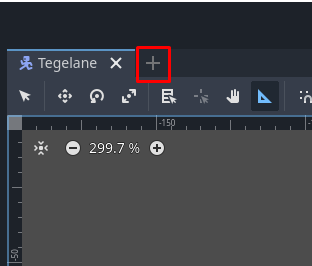
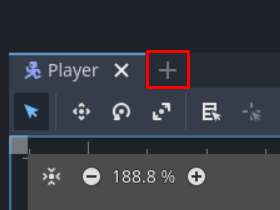
2nd chapter code in english (better to read)

diff --git a/2d-mang/ronija.md b/2d-mang/ronija.md
@@ -33,18 +33,21 @@ CollisionShape sõlme `shape` omadusel on vaja kindlat väärtust. Füüsilisel 
 
 ![Pildil on täpsustatud, kust CollisionShape2D sõlmele kuju luua.](./pildid/ronija/fuusiline-kuju.png)
 
-Nüüd on see CharacterBody2D ristküliku kujuline. Kuid tegelane pole ainult sinine ristkülik - ta peaks ju robot olema, nagu failides. Esiteks salvesta stseen nimega `Tegelane.tscn` ja siis loo `AnimatedSprite2D` nimeline sõlm. See sõlm võimaldab lihtsaid, juba spraidi failis erinevate kaadritega 2D animatsioonid ellu tuua. Sprait tähendab mingit pilti, mida arvutiekraanil saab ringi liigutada. Äsja loodud sõlm hoiatab, et tema "Sprite Frames"-nimelisel omadusel on kindlasti väärtust vaja, muidu on see sõlm kasutu. Ehk leia ja vajuta inspektoris AnimatedSprite2D -> Animation -> Sprite Frames -> New SpriteFrames. Ennem oli muutuja väärtust kuvavas kastis sõna `<empty>`, nüüd on `SpriteFrames`. Vajuta selle peale uuesti ja alumisel ribal avaneb sellele sõlmele omane moodul, millega saame oma animatsioone luua.
+Nüüd on see CharacterBody2D ristküliku kujuline. Kuid tegelane pole ainult sinine ristkülik - ta peaks ju robot olema, nagu failides. Esiteks salvesta stseen nimega `Player.tscn` ja siis loo `AnimatedSprite2D` nimeline sõlm. See sõlm võimaldab lihtsaid, juba spraidi failis erinevate kaadritega 2D animatsioonid ellu tuua. Sprait tähendab mingit pilti, mida arvutiekraanil saab ringi liigutada. Äsja loodud sõlm hoiatab, et tema "Sprite Frames"-nimelisel omadusel on kindlasti väärtust vaja, muidu on see sõlm kasutu. Ehk leia ja vajuta inspektoris AnimatedSprite2D -> Animation -> Sprite Frames -> New SpriteFrames. Ennem oli muutuja väärtust kuvavas kastis sõna `<empty>`, nüüd on `SpriteFrames`. Vajuta selle peale uuesti ja alumisel ribal avaneb sellele sõlmele omane moodul, millega saame oma animatsioone luua.
 
 ![AnimatedSprite2D SpriteFrames moodul peaks algul selline välja nägema.](./pildid/ronija/animated-sprite-2d-moodul.png)
 
 Saame oma animatsioonid luua päris lihtsalt - loome uue animatsiooni, paneme talle sobiva nime ja valime spraidi pildilt, milliseid kaadreid see animatsioon kasutab. Looma pead järgnevate nimedega animatsioonid:
 
--   `seisab`
--   `hüppab`
--   `jookseb`
--   `ronib`
+-   `idle`
+-   `jump`
+-   `run`
+-   `climb`
 
-Kuna üks animatsioon nimega `default` on juba olemas, siis võid alustada sellega, et annad talle uue nime `seisab`. Seda saad teha nime peale ühe korra hiirega vajutades ja siis kirjutades. Järgmisena otsi üles Animation Frames sektsioonis ruudukujuline 9 osaks jagatud nupp. Hiirt selle nupu peal hoides näidatakse vihjet "Add frames from sprite sheet (CTRL+Shift+O)". Vajuta sellele nupule.
+Kuna üks animatsioon nimega `default` on juba olemas, siis võid alustada sellega, et annad talle uue nime `idle`. Seda saad teha nime peale ühe korra hiirega vajutades ja siis kirjutades. Järgmisena otsi üles Animation Frames sektsioonis ruudukujuline 9 osaks jagatud nupp. Hiirt selle nupu peal hoides näidatakse vihjet "Add frames from sprite sheet (CTRL+Shift+O)". Vajuta sellele nupule.
+
+{: .todo }
+Vana pilt
 
 ![Pilt tähistamas kõiki nuppe, mida AnimatedSprite2D-ga animatsioonide loomiseks vaja on.](./pildid/ronija/animatsiooni-loomine.png)
 
@@ -52,29 +55,29 @@ Avaneb uus aken, mis palub sul spraidi faili valida. Leia üles tegelase fail (n
 
 ![Kaadrite valimine animatsiooni jaoks.](./pildid/ronija/kaadrite-valimine.png)
 
-Nüüd loome animatsiooni nimega `jookseb`. Animatsiooni loomiseks leia mooduli Animations sektsioonis paberilehe disainiga nupp, kus on juures roheline plussmärk (see on märgitud ka üleeelmisel pildil punasega) ja vajuta sellele. Peaks ilmuma uus animatsioon nimega `new_animation`. Nüüd juba tead, mida teha: muuda ära nimi, leia spraidi fail ja märgi ära animatsiooni kaadrid. Kaadreid saab valida ka hiire vasakut nuppu all hoides ja seda kaadrite üle liigutades. Selle animatsiooni jaoks on tarvis **ülemise rea parempoolseid** kaadreid.
+Nüüd loome animatsiooni nimega `run`. Animatsiooni loomiseks leia mooduli Animations sektsioonis paberilehe disainiga nupp, kus on juures roheline plussmärk (see on märgitud ka üleeelmisel pildil punasega) ja vajuta sellele. Peaks ilmuma uus animatsioon nimega `new_animation`. Nüüd juba tead, mida teha: muuda ära nimi, leia spraidi fail ja märgi ära animatsiooni kaadrid. Kaadreid saab valida ka hiire vasakut nuppu all hoides ja seda kaadrite üle liigutades. Selle animatsiooni jaoks on tarvis **ülemise rea parempoolseid** kaadreid.
 
-Loo `hüppab` animatsioon, kasutades **ülemise rea vasakult teist** kaadrit ning `ronib` animatsioon kasutab neid **alumise rea** kaadreid, kus tegelane on seljaga. Nüüd on tegelase animatsioonid valmis! Nüüd on aeg lahendada üks probleem, nimelt tegelase füüsiline kuju on liiga väike. Tegelane ise on ka enam-vähem ristküliku kujuline, aga füüsilist kujundit pole näha. Esmalt lohista hiirega stseeni dokis CollisionShape2D sõlm AnimatedSprite2D-st allapoole, et see tegelase ees ilmuks. Seejärel leia inspektoris taas `Shape` omadus ja vajuta väärtuse peale. Selle alla peaks ilmuma nüüd alamenüü, kuhu saad kujundi suurust kirjutada. X väärtus peaks olema 52 ja Y väärtus 66. Lisaks pead kujundi positsiooni natuke allapoole viima - pane seal Y väärtuseks 15.
+Loo `jump` animatsioon, kasutades **ülemise rea vasakult teist** kaadrit ning `climb` animatsioon kasutab neid **alumise rea** kaadreid, kus tegelane on seljaga. Nüüd on tegelase animatsioonid valmis! Nüüd on aeg lahendada üks probleem, nimelt tegelase füüsiline kuju on liiga väike. Tegelane ise on ka enam-vähem ristküliku kujuline, aga füüsilist kujundit pole näha. Esmalt lohista hiirega stseeni dokis CollisionShape2D sõlm AnimatedSprite2D-st allapoole, et see tegelase ees ilmuks. Seejärel leia inspektoris taas `Shape` omadus ja vajuta väärtuse peale. Selle alla peaks ilmuma nüüd alamenüü, kuhu saad kujundi suurust kirjutada. X väärtus peaks olema 52 ja Y väärtus 66. Lisaks pead kujundi positsiooni natuke allapoole viima - pane seal Y väärtuseks 15.
 
 ![Tegelase füüsilise kuju vajalikud parandused.](./pildid/ronija/fuusilise-kuju-parandamine.png)
 
 ## Tegelase liikuma panemine
 
-Tegelase liikuma saamiseks on esiteks vaja tekitada võimalused mängijal sisendeid saata. Selleks ava tööriistaribalt projekti seaded (Project -> Project Settings...). Projekti seadete aknas vaheta ülevalt vaade `Input Map` peale. Siin saad deklareerida erinevaid tegevusi, mida mängija saab teha, näiteks vasakule liikumine, hüppamine jms. Lahtrisse `Add New Action` kirjuta `liikumine_parem` ja lisa see kas `Add` nupust või `Enter` klahvile vajutades. Tahame, et tegelane liiguks nooleklahvidega. Leia tegevuste loetelust enda vast loodud tegevus ja vajuta paremal olevalt plussmärki. Avaneb aken, kus saad ära märkida, mis kasutaja sisendiga see tegevus toimub. Vajuta lahtri `Listening for input...` peale ja vajuta paremat nooleklahvi, siis kliki `OK` nuppu, et kinnitada, et see tegevus juhtub sellise sisendi korral.
+Tegelase liikuma saamiseks on esiteks vaja tekitada võimalused mängijal sisendeid saata. Selleks ava tööriistaribalt projekti seaded (Project -> Project Settings...). Projekti seadete aknas vaheta ülevalt vaade `Input Map` peale. Siin saad deklareerida erinevaid tegevusi, mida mängija saab teha, näiteks vasakule liikumine, hüppamine jms. Lahtrisse `Add New Action` kirjuta `movement_right` ja lisa see kas `Add` nupust või `Enter` klahvile vajutades. Tahame, et tegelane liiguks nooleklahvidega. Leia tegevuste loetelust enda vast loodud tegevus ja vajuta paremal olevalt plussmärki. Avaneb aken, kus saad ära märkida, mis kasutaja sisendiga see tegevus toimub. Vajuta lahtri `Listening for input...` peale ja vajuta paremat nooleklahvi, siis kliki `OK` nuppu, et kinnitada, et see tegevus juhtub sellise sisendi korral.
 
 Kokku on vaja luua neli tegevust:
 
--   `liikumine_parem` parema nooleklahviga (selle lõime)
--   `liikumine_vasak` vasaku nooleklahviga
--   `hüpe` X klahviga
--   `ronimine` Z klahviga
+-   `movement_right` parema nooleklahviga (selle juba lõime)
+-   `movement_left` vasaku nooleklahviga
+-   `jump` X klahviga
+-   `climb` Z klahviga
 
 ![Kõik tegevused ja punasega tähistatud nupud, kuidas neid lisada.](./pildid/ronija/sisendite-loomine.png)
 
 Kõik tegevused, mis lõpuks peaksid olema.
 {: .text-center .fs-3}
 
-Nüüd võime lõpuks CharacterBody2D jaoks skripti luua. Kui salvestasid oma stseeni nimega `Tegelane.tscn`, siis peaks Godot skripti nimeks pakkuma `Tegelane.gd`, mis sobib. Algul paneme tegelase lihtsalt vasakule-paremale liikuma. Selleks kasutame funktsiooni `_physics_process`. See on ka sisseehitatud funktsioon ja sarnase põhimõttega nagu `_process`. Vahe on neil see, et `_physics_process` üritab käivituda maksimaalselt 60 korda sekundis, aga `_process` funktsioonil sellist piiri pole. 
+Nüüd võime lõpuks CharacterBody2D jaoks skripti luua. Kui salvestasid oma stseeni nimega `Player.tscn`, siis peaks Godot skripti nimeks pakkuma `Player.gd`, mis sobib. Algul paneme tegelase lihtsalt vasakule-paremale liikuma. Selleks kasutame funktsiooni `_physics_process`. See on ka sisseehitatud funktsioon ja sarnase põhimõttega nagu `_process`. Vahe on neil see, et `_physics_process` üritab käivituda maksimaalselt 60 korda sekundis, aga `_process` funktsioonil sellist piiri pole. 
 
 Võid algse koodi järgnevaga asendada:
 
@@ -82,9 +85,9 @@ Võid algse koodi järgnevaga asendada:
 extends CharacterBody2D
 
 func _physics_process(delta):
-	if (Input.is_action_pressed("liikumine_parem")):
+	if (Input.is_action_pressed("movement_right")):
 		velocity.x = 1
-	elif (Input.is_action_pressed("liikumine_vasak")):
+	elif (Input.is_action_pressed("movement_left")):
 		velocity.x = -1
 	move_and_slide()
 ```
@@ -97,7 +100,7 @@ Tahaks näha, kas kood töötab, aga ei taha tegelast ennast mängu põhistseeni
 
 Kui lähedalt vaadata, siis tegelane liigub küll, kui paremat ja vasakut nooleklahvi vajutad, aga kohutavalt aeglaselt. Selleks võiks luua tegelasele kiiruse redaktorisse eksporditud muutuja, mis on täisarv. Selleks sobib järgmine koodirida:
 
-`@export var kiirus: int = 100`
+`@export var speed: int = 100`
 
 See laseb meil aga panna tegelase kiiruseks ükskõik mis täisarvu. Kirjuta `@export` asemele hoopis `@export_range(100, 300, 10)`. Nüüd on inspektoris nupp kiiruse valimiseks, mida saad 100-300 vahel libistada 10 kaupa. Siin tähendab kiirus seda, mitu pikslit tegelane ühe sekundi jooksul vasakule-paremale liikuda saab.
 
@@ -105,8 +108,8 @@ Lisaks on lühem viis kontrollida, kas vajutatakse vasakut või paremat noolekla
 
 ```gdscript
 func _physics_process(delta: float):
-	var suund: float = Input.get_axis("liikumine_vasak", "liikumine_parem")
-	velocity.x = suund * kiirus
+	var direction: float = Input.get_axis("movement_left", "movement_right")
+	velocity.x = direction * speed
 	move_and_slide()
 ```
 

diff --git a/2d-mang/fuusika.md b/2d-mang/fuusika.md
@@ -9,41 +9,41 @@ nav_order: 2
 
 ## Gravitatsioon
 
-Selleks, et mängu tegelane hiljem hüpata saaks, peab talle gravitatsioonijõud mõjuma. Gravitatsiooni võime kirja panna konstandina `Tegelane.gd` faili järgmiselt:
+Selleks, et mängu tegelane hiljem hüpata saaks, peab talle gravitatsioonijõud mõjuma. Gravitatsiooni võime kirja panna konstandina `Player.gd` faili järgmiselt:
 
-`const GRAVITATSIOON: float = 9.8`
+`const GRAVITY: float = 9.8`
 
 Lisaks oleks hea horisontaalse liikumise ja vertikaalse liikumise loogika eraldi funktsioonidesse panna. See tähendab, et kaks funktsiooni eksisteerivad `velocity` X ja Y väärtuste määramiseks ning `move_and_slide` käsk jääb ikka `_physics_process` funktsiooni.
 Tulemus võiks näha välja näiteks selline:
 
 ```gdscript
 func _physics_process(delta: float):
-	horisontaalne_liikumine()
+	horizontal_movement()
 	move_and_slide()
 
-func horisontaalne_liikumine() -> void:
-	var suund: float = Input.get_axis("liikumine_vasak", "liikumine_parem")
-	velocity.x = suund * kiirus
+func horizontal_movement() -> void:
+	var direction: float = Input.get_axis("movement_left", "movement_right")
+	velocity.x = direction * speed
 ```
 
-Gravitatsiooni ja hüppamise jaoks loo uus funktsioon nimega `vertikaalne_liikumine`. Milline oleks koodirida, mis pidevalt tegelase langemist kiirendab?
+Gravitatsiooni ja hüppamise jaoks loo uus funktsioon nimega `vertical_movement`. Milline oleks koodirida, mis pidevalt tegelase langemist kiirendab?
 
-Lühike ja loetav vastus oleks `velocity.y += GRAVITATSIOON`. Pane tegelase stseen korraks käima ja veendu, et ta liigub ekraanil aina kiiremini madalamale ja lõpuks kaob.
+Lühike ja loetav vastus oleks `velocity.y += GRAVITY`. Pane tegelase stseen korraks käima ja veendu, et ta liigub ekraanil aina kiiremini madalamale ja lõpuks kaob.
 
 ## Hüppamine
 
-Nüüd tahaks nii teha, et tegelane suudab oma kukkumise vastu midagi teha ka. Kui mäletad, lõime tegevuse nimega `hüpe`, mis toimub, kui vajutatakse X-klahvi. Lisaks kasutasime eelmises osas funktsiooni `Input.is_action_pressed(tegevuse_nimi)`. Hüpe on ühekordne tugev tõuge maapinnalt, seega `is_action_pressed` ei sobi siia. Õnneks on väga sarnase nimega `is_action_just_pressed`, mis tagastab tõese väärtuse vaid siis, kui tegevus just hakkas toimuma. Loo veel eksporditud muutuja nimega `huppejoud`, mis kasutab `@export_range` annotatsiooni ja aktsepteerib väärtusi 250-750 vahel 25 kaupa ning mille vaikimisi väärtus on 500.
+Nüüd tahaks nii teha, et tegelane suudab oma kukkumise vastu midagi teha ka. Kui mäletad, lõime tegevuse nimega `jump`, mis toimub, kui vajutatakse X-klahvi. Lisaks kasutasime eelmises osas funktsiooni `Input.is_action_pressed(tegevuse_nimi)`. Hüpe on ühekordne tugev tõuge maapinnalt, seega `is_action_pressed` ei sobi siia. Õnneks on väga sarnase nimega `is_action_just_pressed`, mis tagastab tõese väärtuse vaid siis, kui tegevus just hakkas toimuma. Loo veel eksporditud muutuja nimega `jump_force`, mis kasutab `@export_range` annotatsiooni ja aktsepteerib väärtusi 250-750 vahel 25 kaupa ning mille vaikimisi väärtus on 500.
 Võiksid sarnase valmis kirjutada:
 
 ```gdscript
-@export_range(250, 750, 25) var huppejoud: int = 500
+@export_range(250, 750, 25) var jump_force: int = 500
 
 ... (vahepealsed koodiread)
 
-func vertikaalne_liikumine() -> void:
-	velocity.y += GRAVITATSIOON
-	if (Input.is_action_just_pressed("hüpe")):
-		velocity.y = -huppejoud
+func vertical_movement() -> void:
+	velocity.y += GRAVITY
+	if (Input.is_action_just_pressed("jump")):
+		velocity.y = -jump_force
 ```
 
 Kui käivitad stseeni, siis tegelane peaks X-klahvi vajutuse peale hüppama (üles liikuma) ja mingi aja pärast taas langema.
@@ -62,29 +62,29 @@ Selleks, et kontrollida, kas kõik on siiani õigesti tehtud, peame tegelase ja 
 
 ![Sõlmed oma tavanimedega.](./pildid/fuusika/solmed-tavanimedega.png)
 
-Kui heitsid pilgu stseeni dokki, siis võib-olla panid tähele, et nii maapind kui ka tegelane on esindatud oma juursõlme nimega. Siin see segadust ei põhjusta, aga mida mahukam su mäng on, seda enam stseene ja sõlmi on korraga kasutuses. Õnneks on võimalik sõlme nime muuta. Suundu tagasi tegelase stseeni samalt ribalt, kust uue stseeni lõid. Vali juursõlm (CharacterBody2D) ja määra tema nimeks `Tegelane` kas:
+Kui heitsid pilgu stseeni dokki, siis võib-olla panid tähele, et nii maapind kui ka tegelane on esindatud oma juursõlme nimega. Siin see segadust ei põhjusta, aga mida mahukam su mäng on, seda enam stseene ja sõlmi on korraga kasutuses. Õnneks on võimalik sõlme nime muuta. Suundu tagasi tegelase stseeni samalt ribalt, kust uue stseeni lõid. Vali juursõlm (CharacterBody2D) ja määra tema nimeks `Player` kas:
 
 -	parem-kliki menüüst vajutades nupule `Rename`
 -	selle peal uuesti klikkides
 -	F2 klahvi vajutades
 
-Peale seda saad kirjutada uue nime, mis sõlmel peaks olema. Peale sõlme nime muutmist peab stseeni taas ära salvestama. Korda seda protsessi maapinna stseeniga, vaheta nimi StaticBody2D `Maapind` vastu.
+Peale seda saad kirjutada uue nime, mis sõlmel peaks olema. Peale sõlme nime muutmist peab stseeni taas ära salvestama. Korda seda protsessi maapinna stseeniga, vaheta nimi StaticBody2D `Ground` vastu.
 
-Selleks, et uusi nimesid näha, pead vanad koopiad nendest stseenidest ära kustutama ja uued looma. Edaspidi uut stseeni luues on hea praktika juursõlmele kohe mõistetav ja unikaalne nimi anda. Nimeta ka mängu stseeni Node ümber `Mäng`uks. Liiguta maapind koordinaatidele x: 576, y: 628, sedasi on maapind ilusti mängu akna alumises pooles. Määra mängu stseen peastseeniks ja käivita see.
+Selleks, et uusi nimesid näha, pead vanad koopiad nendest stseenidest ära kustutama ja uued looma. Edaspidi uut stseeni luues on hea praktika juursõlmele kohe mõistetav ja unikaalne nimi anda. Nimeta ka mängu stseeni Node ümber `Game`'iks. Liiguta maapind koordinaatidele x: 576, y: 628, sedasi on maapind ilusti mängu akna alumises pooles. Määra mängu stseen peastseeniks ja käivita see.
 
 Peaksid saama tegelast ringi liigutada mängu akna mõõtmetes (kui liigud sellest välja, kukud alla).
 
 ## Hüppamise viimistlemine
 
-Nüüd on tegelasega mure: ta saab ju õhus ikka niisama hüpata. Lahendus on tegelikult väga lihtne: CharacterBody2D klassil on meetod `is_on_floor`, mis tagastab, kas tegelane puutus eelmisel kaadril maad. Lisaks on olemas meetodid `is_on_wall` ja `is_on_ceiling` vastavalt seinapuute ja laepuute kontrollimiseks. Selle uue meetodi pead juurde lisama funktsioonile `vertikaalne_liikumine`. Sealne *if*-tingimuslause peab kontrollima, kas hüppe tegevus just toimus ning kas tegelane üldse puutub maapinda.
+Nüüd on tegelasega mure: ta saab ju õhus ikka niisama hüpata. Lahendus on tegelikult väga lihtne: CharacterBody2D klassil on meetod `is_on_floor`, mis tagastab, kas tegelane puutus eelmisel kaadril maad. Lisaks on olemas meetodid `is_on_wall` ja `is_on_ceiling` vastavalt seinapuute ja laepuute kontrollimiseks. Selle uue meetodi pead juurde lisama funktsioonile `vertical_movement`. Sealne *if*-tingimuslause peab kontrollima, kas hüppe tegevus just toimus ning kas tegelane üldse puutub maapinda.
 
 Tulemus peaks selline olema:
 
 ```gdscript
-func vertikaalne_liikumine() -> void:
-	velocity.y += GRAVITATSIOON
-	if (Input.is_action_just_pressed("hüpe") and is_on_floor()):
-		velocity.y = -huppejoud
+func vertical_movement() -> void:
+	velocity.y += GRAVITY
+	if (Input.is_action_just_pressed("jump") and is_on_floor()):
+		velocity.y = -jump_force
 ```
 
 Lisa juurde eksporditud muutuja nimega `mass`, mille väärtused saavad olla vahemikus 1-10. Selle muutuja töö on gravitatsiooni mõju suurendada, et tegelase hüpe nii "hõljuv" ei oleks. Lisaks sellele muuda ka hüppejõu vahemik 1000-2500 peale, et arvestada lisatud gravitatsioonijõuga.
@@ -104,8 +104,8 @@ Järgnev rida saavutab seda:
 
 ... (vahepealsed koodiread)
 
-func vertikaalne_liikumine() -> void:
-	velocity.y += GRAVITATSIOON * mass
+func vertical_movement() -> void:
+	velocity.y += GRAVITY * mass
 ```
 
 ## Ronimine
@@ -113,5 +113,4 @@ func vertikaalne_liikumine() -> void:
 Lisame tegelasele lõpuks ronimise funktsionaalsuse. Tegelane saab ronida vajutades Z-klahvi, et seinast kinni hoida ja X-klahvi (hüppamise klahv), et üles ronida.
 
 {: .todo }
--   ronimine
--   collision layer ja mask
+ronimine, collision layer + mask

diff --git a/tutvustus/index.md b/tutvustus/index.md
@@ -27,36 +27,20 @@ Nende hulka kuuluvad:
 -   iOS (redaktorit ei saa kasutada)
 -   mängukonsoolid (redaktorit ei saa kasutada)
 
-{: .todo }
-Kirjuta ümber read märgistatud \*-ga
-
 Godot'ga saab luua nii 2D (kahemõõtmelisi) kui ka 3D (kolmemõõtmelisi) rakendusi.
 Saadaval on
 
 -   animatsiooni loomise tööriistad,
 -   valgustuse ja varjude süsteemid,
 -   läbi koodi kujundite joonistamine,
--   2D spraitide tükeldamine\*,
+-   2D spraitidega töötamine,
 -   2D ja 3D füüsika mootorid,
--   *shader*'id ehk varjutajad\*,
+-   varjutajad (ingl *shader*),
 -   koodi kirjutamine järgnevates programmeerimiskeeltes:
     -   GDScript
     -   C#
     -   GDExtension (laiendus muus keeles)
--   heliga tegelemise tööriistad\*,
+-   heli tööriistad,
 -   TCP, UDP ja HTTP protokollide kasutamine,
     -   on võimalik luua mitme mängijaga (*multiplayer*) videomänge
 -   graafiline kasutajaliidese süsteem
-
-{: .todo }
-Võrdle mitme mootoriga
-
-## Godot eelised Unity üle
-
-2023\. aastal tegi Unity Technologies oma Unity mängumootoriga vastuolulisi muutuseid seoses hinnapoliitikaga.
-Nimelt pakuti välja idee, et kui Unity'ga loodud rakendust laeb alla küllalt inimesi, hakatakse arendajalt tema teenitud tuludest lõivu küsima.
-Seda muutust ei viidud läbi tänu suurele vastukajale, kuid kasutajad nägid, mis peidetud lähtekoodiga programmiga võib juhtuda, kui seda omav firma soovib oma tulusid tõsta.
-
-Godot on vabavaraline, mis tähendab, et tema lähtekood on avalik.
-Seda on võimalik leida [Github'ist](https://github.com/godotengine/godot) ja tahte korral saab kasutaja programmi ise kokku ehitada ja isegi muutusi teha.
-See tähendab, et nii kaua, kui Godot on vabavaraline programm, ei pea selle kasutaja muretsema ootamatute hinnapoliitikate üle.

diff --git a/2d-mang/index.md b/2d-mang/index.md
@@ -9,6 +9,8 @@ has_children: true
 
 Selles peatükis lood prototüübi 2D videomängu jaoks. Tegu on platvormimänguga, kus tegelane saab ringi liikuda, hüpata ja ronida. Tegelase eesmärk on münte kokku koguda.
 
+Kuna nüüd oskad natuke GDScripti kirjutada, siis nüüdsest on kood, failinimed jne sujuvamaks lugemiseks kirjutatud inglise keeles.
+
 Õpid järgnevaid asju:
 -   Godot 2D füüsikamootor
 -   Tegelase animeerimine
